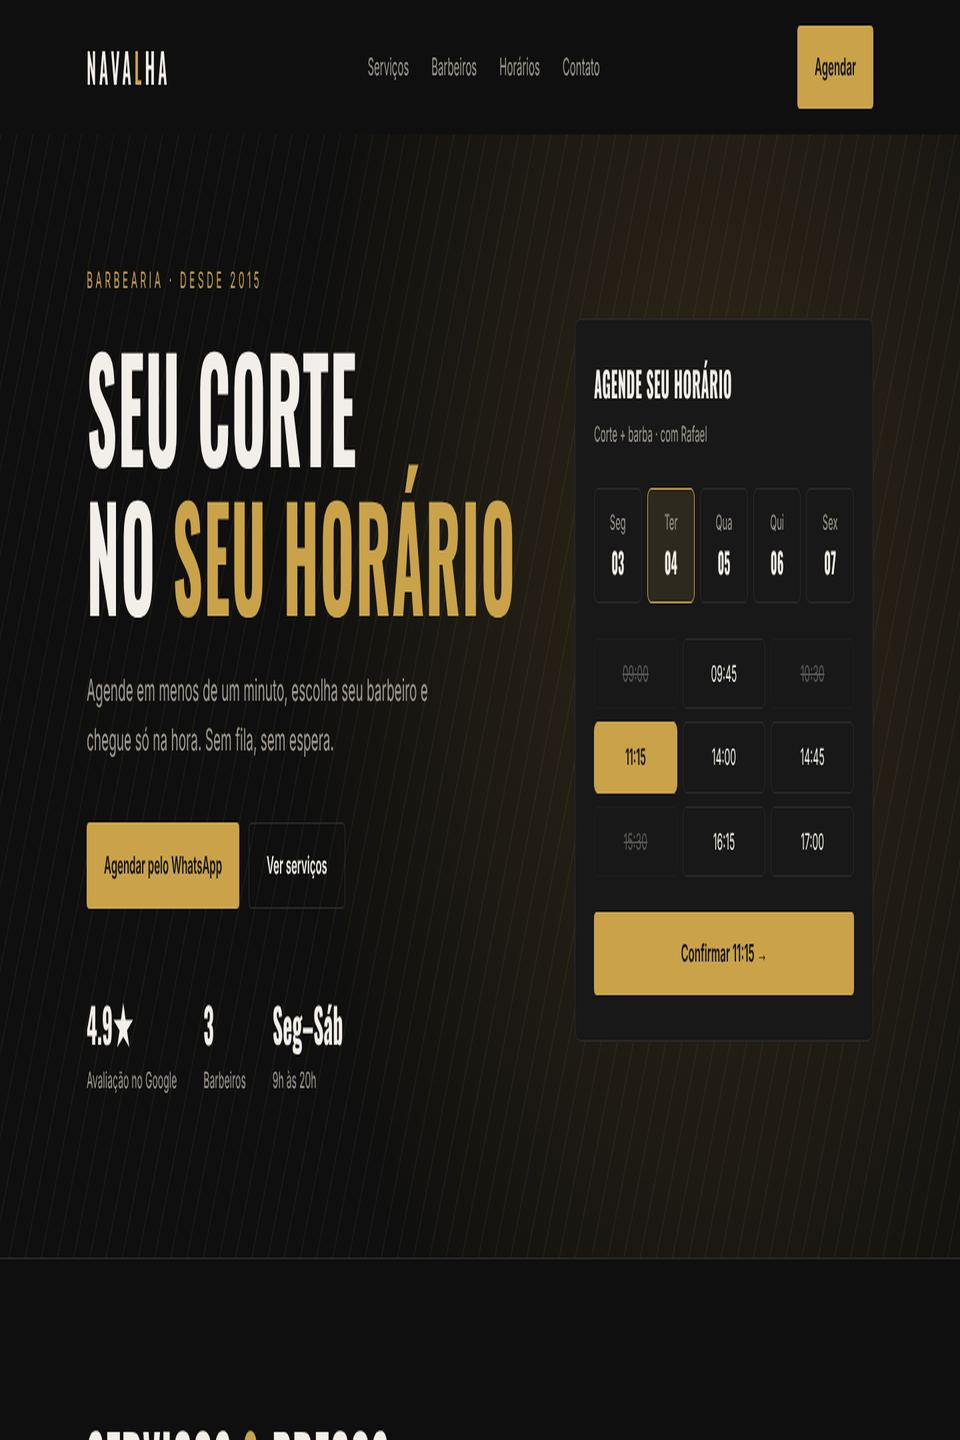
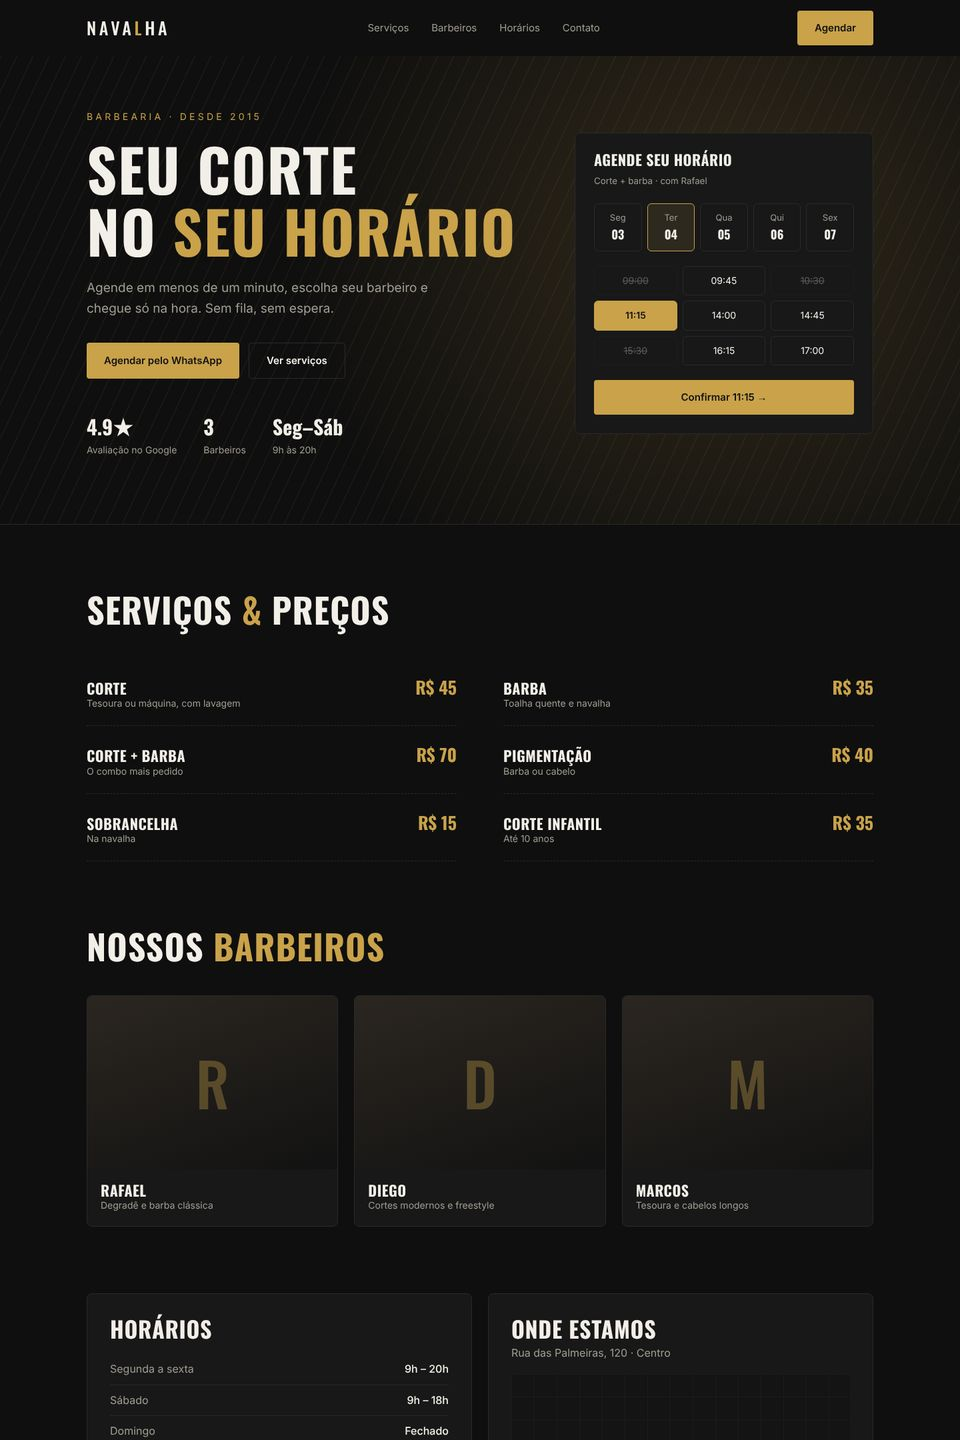
Corrige distorção dos prints dos projetos conceito
Claude-Session: https://claude.ai/code/session_01NwkDL16iKUr5GvbijuvN3N

diff --git a/index.html b/index.html
@@ -392,11 +392,11 @@
             <div class="meta"><h3>Barbearia Navalha</h3><p>Landing page · agendamento online e serviços com preço</p><span class="see">Ver projeto →</span></div>
           </a>
           <a class="project reveal" href="projetos/clinica-vida-leve.html" target="_blank" rel="noopener">
-            <div class="thumb shot"><div class="shot-bar"><i></i><i></i><i></i></div><div class="shot-view"><img src="assets/projetos/clinica-vida-leve.jpg" alt="Página inicial do site Clínica Vida Leve" width="960" height="1440" loading="lazy"></div></div>
+            <div class="thumb shot"><div class="shot-bar"><i></i><i></i><i></i></div><div class="shot-view"><img src="assets/projetos/clinica-vida-leve.jpg" alt="Página inicial do site Clínica Vida Leve" width="960" height="1340" loading="lazy"></div></div>
             <div class="meta"><h3>Clínica Vida Leve</h3><p>Site institucional · especialidades, equipe e marcação de consulta</p><span class="see">Ver projeto →</span></div>
           </a>
           <a class="project reveal" href="projetos/forno-vivo-pizzaria.html" target="_blank" rel="noopener">
-            <div class="thumb shot"><div class="shot-bar"><i></i><i></i><i></i></div><div class="shot-view"><img src="assets/projetos/forno-vivo-pizzaria.jpg" alt="Página inicial do site Forno Vivo Pizzaria" width="960" height="1440" loading="lazy"></div></div>
+            <div class="thumb shot"><div class="shot-bar"><i></i><i></i><i></i></div><div class="shot-view"><img src="assets/projetos/forno-vivo-pizzaria.jpg" alt="Página inicial do site Forno Vivo Pizzaria" width="960" height="1359" loading="lazy"></div></div>
             <div class="meta"><h3>Forno Vivo Pizzaria</h3><p>Cardápio digital · pedido montado no site e finalizado no WhatsApp</p><span class="see">Ver projeto →</span></div>
           </a>
         </div>

diff --git a/CLAUDE.md b/CLAUDE.md
@@ -19,6 +19,6 @@ Página única em HTML/CSS/JS, sem build. Tudo está no `index.html` (a foto é 
 - Número do WhatsApp: `5514998470667`.
 - Máscara do telefone: remove +55 e 0 inicial e limita a 11 dígitos. Fixo (10 dígitos) usa (00) 0000-0000.
 - Projetos na seção "Trabalhos recentes" são conceitos (negócios fictícios). O aviso fica no subtítulo da seção e no rodapé de cada página em `projetos/`; não apresentar como clientes reais.
-- Os prints dos cards (`assets/projetos/*.jpg`) são gerados a partir das páginas em `projetos/`. Se mudar uma página, gere o print de novo (1440x2160, reduzido para 960x1440).
+- Os prints dos cards (`assets/projetos/*.jpg`) são gerados a partir das páginas em `projetos/`. Se mudar uma página, gere o print de novo (screenshot com fullPage: true, largura 1440 e altura até 2160, reduzido para 960 de largura mantendo a proporção).
 - Identidade visual: fundo `#0d0a14`, roxo `#9d5cff`, lilás `#c084fc`, fontes Sora (títulos) e Inter (texto).
 - Logo: `assets/logo/` (wordmark "igor.design" com o ponto como pixel roxo). As letras são vetores gerados da fonte Sora (800 em "igor", 400 em "design"); não troque por texto. Ícone "ig." em `icone.svg` e PNGs (32, 180, 192, 512 e `instagram-perfil.png`).
